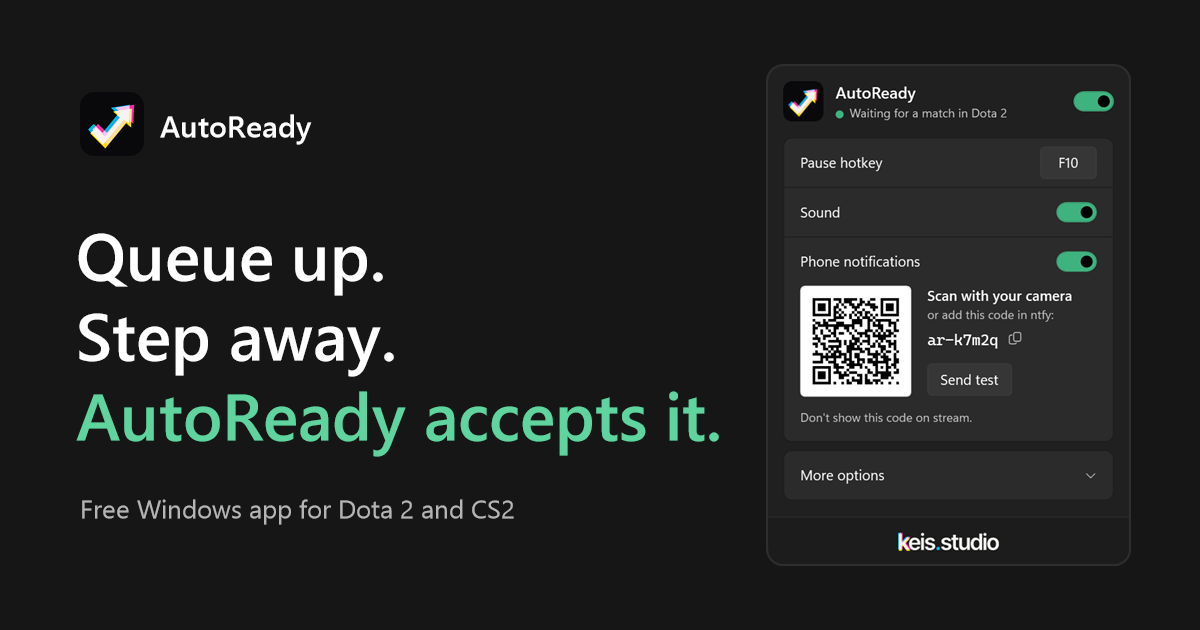
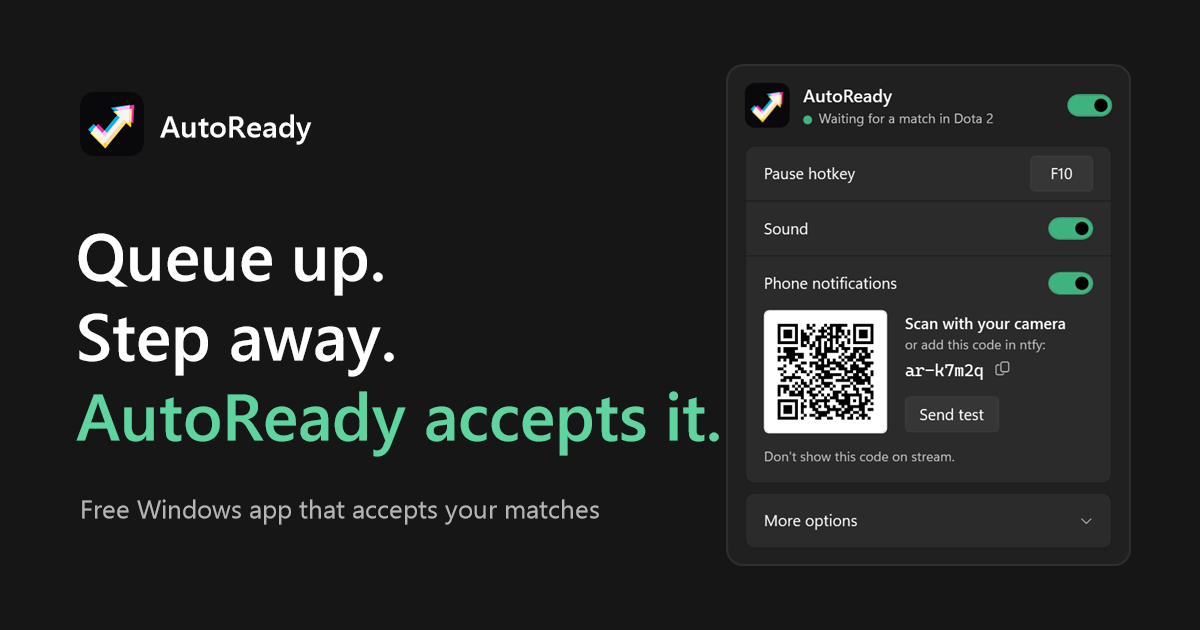
Keep taglines game-agnostic
The headline copy on the site, READMEs, installer and social image no
longer names specific games; supported games are listed in one place
on each page ("Works with Dota 2 and CS2") so adding games only
touches that line.

diff --git a/docs/index.html b/docs/index.html
@@ -4,7 +4,7 @@
 <meta charset="utf-8">
 <meta name="viewport" content="width=device-width, initial-scale=1, viewport-fit=cover">
 <title>Queue up. Step away. AutoReady accepts it.</title>
-<meta name="description" content="Free Windows app that accepts your Dota 2 and CS2 matches while you're away and tells you when to come back.">
+<meta name="description" content="Free Windows app that accepts your matches while you're away and tells you when to come back.">
 <meta name="theme-color" content="#F3F3F3" media="(prefers-color-scheme: light)">
 <meta name="theme-color" content="#161616" media="(prefers-color-scheme: dark)">
 <link rel="canonical" href="https://hercase.github.io/autoready/">
@@ -119,7 +119,7 @@
     <div>
       <div class="brand"><img src="assets/autoready-icon-192.png" width="36" height="36" alt="">AutoReady</div>
       <h1 data-t="h1">Queue up. Step away.<br><em>AutoReady accepts it.</em></h1>
-      <p class="lead" data-t="lead">A free Windows app that accepts your Dota 2 and CS2 matches while you're away, and tells you when to come back.</p>
+      <p class="lead" data-t="lead">A free Windows app that accepts your matches while you're away, and tells you when to come back.</p>
       <a class="btn" href="https://github.com/hercase/autoready/releases/latest/download/AutoReady.exe">
         <svg viewBox="0 0 24 24" fill="none" stroke="currentColor" stroke-width="2.2" stroke-linecap="round" stroke-linejoin="round" aria-hidden="true"><path d="M12 3v12"/><path d="m7 10 5 5 5-5"/><path d="M5 21h14"/></svg>
         <span data-t="download">Download for Windows</span>
@@ -132,7 +132,7 @@
         <li><svg viewBox="0 0 24 24" fill="none" stroke="currentColor" stroke-width="2.4" stroke-linecap="round" stroke-linejoin="round" aria-hidden="true"><path d="M20 6 9 17l-5-5"/></svg><span data-t="p2">Never touches game memory. It just clicks Accept</span></li>
         <li><svg viewBox="0 0 24 24" fill="none" stroke="currentColor" stroke-width="2.4" stroke-linecap="round" stroke-linejoin="round" aria-hidden="true"><path d="M20 6 9 17l-5-5"/></svg><span data-t="p3">No accounts, ads or tracking. Open source</span></li>
       </ul>
-      <p class="ask"><span data-t="askQ">Play something else?</span> <a href="https://github.com/hercase/autoready/issues/new?template=game-request.yml" data-t="askA">Ask for your game →</a></p>
+      <p class="ask"><span data-t="askQ">Works with Dota 2 and CS2. Play something else?</span> <a href="https://github.com/hercase/autoready/issues/new?template=game-request.yml" data-t="askA">Ask for your game →</a></p>
     </div>
     <picture class="shot-wrap">
       <source id="shot-light" media="(prefers-color-scheme: light)" srcset="assets/panel-en-light.png">
@@ -170,7 +170,7 @@
   }
   var ES = {
     h1: "Buscá partida. Alejate.<br><em>AutoReady la acepta.</em>",
-    lead: "Una app gratis para Windows que acepta tus partidas de Dota 2 y CS2 mientras no estás, y te avisa cuándo volver.",
+    lead: "Una app gratis para Windows que acepta tus partidas mientras no estás, y te avisa cuándo volver.",
     download: "Descargar para Windows",
     meta: "Gratis · Windows 10 y 11 · Sin permisos de administrador",
     smart: "Windows puede mostrar un aviso la primera vez. <a href=\"faq/?lang=es#smartscreen\">Qué hacer</a>",
@@ -178,7 +178,7 @@
     p2: "No toca la memoria del juego: solo hace click en Aceptar",
     p3: "Sin cuentas, publicidad ni rastreo. Código abierto",
     mobile: "¿Estás en el celular? Abrí esta página en la PC para instalarla.",
-    askQ: "¿Jugás a otra cosa?", askA: "Pedí tu juego →",
+    askQ: "Funciona con Dota 2 y CS2. ¿Jugás a otra cosa?", askA: "Pedí tu juego →",
     faq: "Preguntas", source: "Código fuente", privacy: "Privacidad"
   };
   document.documentElement.lang = "es";

diff --git a/docs/faq/index.html b/docs/faq/index.html
@@ -105,7 +105,7 @@
         <li><b>Shortcuts</b> in the Start menu and, if you choose, on the desktop.</li>
         <li><b>An entry in Settings → Apps</b>, to uninstall it like any other app.</li>
         <li><b>Start with Windows</b>, if you leave it on: a startup entry for your user.</li>
-        <li><b>A Game State Integration file</b> in the Dota 2 and CS2 folders. It's Valve's official way for tools to know when you're in a match; the game only talks to AutoReady on your own PC (<code>127.0.0.1</code>).</li>
+        <li><b>A Game State Integration file</b> in the folders of supported games (Dota 2 and CS2 today). It's Valve's official way for tools to know when you're in a match; the game only talks to AutoReady on your own PC (<code>127.0.0.1</code>).</li>
         <li><b>Settings and logs</b> in <code>%APPDATA%\AutoReady</code>.</li>
       </ul>
       <p>It never touches game memory or game files. It only changes your Steam launch options if you click <b>Set up</b>, and it keeps the ones you already had.</p>
@@ -172,7 +172,7 @@
         <li><b>Accesos directos</b> en el menú Inicio y, si querés, en el escritorio.</li>
         <li><b>Una entrada en Configuración → Aplicaciones</b>, para desinstalarla como cualquier app.</li>
         <li><b>Iniciar con Windows</b>, si lo dejás activado: una entrada de inicio para tu usuario.</li>
-        <li><b>Un archivo de Game State Integration</b> en las carpetas de Dota 2 y CS2. Es la forma oficial de Valve para que una herramienta sepa cuándo estás en partida; el juego solo le habla a AutoReady dentro de tu PC (<code>127.0.0.1</code>).</li>
+        <li><b>Un archivo de Game State Integration</b> en las carpetas de los juegos compatibles (hoy, Dota 2 y CS2). Es la forma oficial de Valve para que una herramienta sepa cuándo estás en partida; el juego solo le habla a AutoReady dentro de tu PC (<code>127.0.0.1</code>).</li>
         <li><b>La configuración y los logs</b>, en <code>%APPDATA%\AutoReady</code>.</li>
       </ul>
       <p>Nunca toca la memoria ni los archivos del juego. Solo cambia tus opciones de lanzamiento de Steam si tocás <b>Configurar</b>, y conserva las que ya tenías.</p>

diff --git a/src/Installer.cs b/src/Installer.cs
@@ -176,7 +176,7 @@ namespace AutoReady
             titles.Children.Add(new TextBlock { Text = "AutoReady", FontSize = 20, FontWeight = FontWeights.SemiBold, FontFamily = new FontFamily("Segoe UI Variable Display, Segoe UI") });
             titles.Children.Add(new TextBlock
             {
-                Text = Lang.T("Acepta tus partidas de Dota 2 y CS2 mientras no estás.", "Accepts your Dota 2 and CS2 matches while you're away."),
+                Text = Lang.T("Acepta tus partidas mientras no estás.", "Accepts your matches while you're away."),
                 Foreground = theme.TextSecondary, TextWrapping = TextWrapping.Wrap,
             });
             Grid.SetColumn(titles, 1);

diff --git a/PRIVACY.md b/PRIVACY.md
@@ -16,7 +16,7 @@ What stays on your PC:
 - Settings and logs in `%APPDATA%\AutoReady`.
 - During the beta, screenshots of the game window to improve detection, in `%APPDATA%\AutoReady\samples` (latest 15).
   They are never uploaded. Turn them off with `SaveSamples=False` in `%APPDATA%\AutoReady\autoready.ini`.
-- A Game State Integration config file in the Dota 2 and CS2 folders, so those games tell AutoReady (and only AutoReady,
+- A Game State Integration config file in the folders of supported games (Dota 2 and CS2 today), so those games tell AutoReady (and only AutoReady,
   on `127.0.0.1`) when you're in a match.
 
 The phone setup page ([hercase.github.io/autoready/phone](https://hercase.github.io/autoready/phone/)) that the QR code
@@ -44,7 +44,7 @@ Lo que queda en tu PC:
 - La configuración y los logs, en `%APPDATA%\AutoReady`.
 - Durante la beta, capturas de la ventana del juego para mejorar la detección, en `%APPDATA%\AutoReady\samples` (las
   últimas 15). Nunca se suben. Se apagan con `SaveSamples=False` en `%APPDATA%\AutoReady\autoready.ini`.
-- Un archivo de configuración de Game State Integration en las carpetas de Dota 2 y CS2, para que esos juegos le avisen
+- Un archivo de configuración de Game State Integration en las carpetas de los juegos compatibles (hoy, Dota 2 y CS2), para que esos juegos le avisen
   a AutoReady (y solo a AutoReady, en `127.0.0.1`) cuando estás en partida.
 
 La página para conectar el celular ([hercase.github.io/autoready/phone](https://hercase.github.io/autoready/phone/)) que

diff --git a/README.es.md b/README.es.md
@@ -6,7 +6,7 @@
 
 <p align="center">
   <b>Buscá partida, andá a hacer otra cosa. AutoReady la acepta por vos.</b><br>
-  Una app gratis para Windows que acepta tus partidas de Steam y te avisa cuándo volver.<br>
+  Una app gratis para Windows que acepta tus partidas y te avisa cuándo volver.<br>
   Funciona con Dota 2 y Counter-Strike 2.
 </p>
 

diff --git a/README.md b/README.md
@@ -6,7 +6,7 @@
 
 <p align="center">
   <b>Queue up. Step away. AutoReady accepts the match for you.</b><br>
-  A free Windows app that accepts your Steam matches and tells you when to come back.<br>
+  A free Windows app that accepts your matches and tells you when to come back.<br>
   Works with Dota 2 and Counter-Strike 2.
 </p>
 
